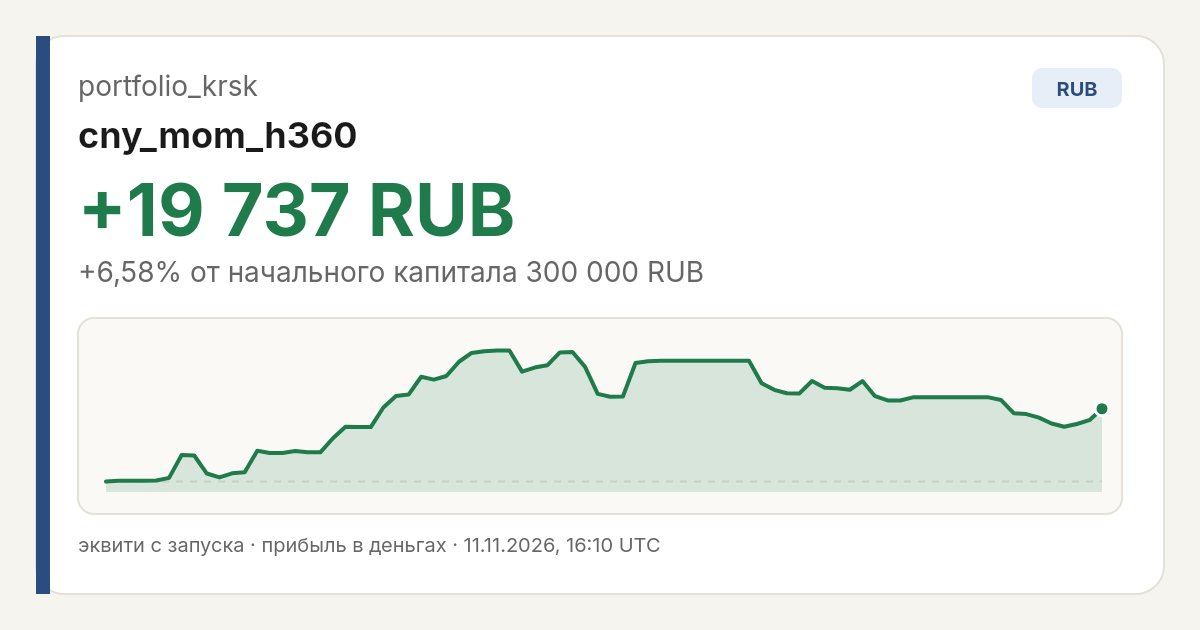
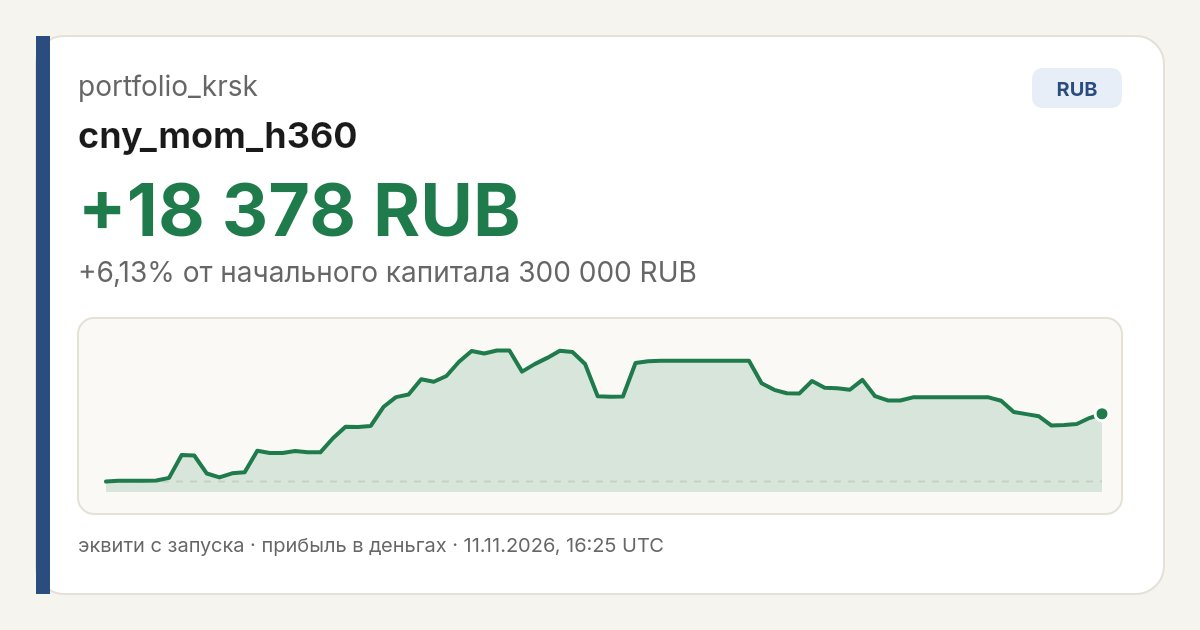
sync equity data 2026-11-11T16:25:52Z

diff --git a/share.html b/share.html
@@ -4,23 +4,23 @@
     <meta charset="UTF-8" />
     <meta name="viewport" content="width=device-width, initial-scale=1.0" />
     <title>portfolio_krsk - cny_mom_h360</title>
-    <meta name="description" content="cny_mom_h360: +19 737 RUB (+6,58%) с запуска. Лидер обложки выбран по доходности в процентах от начального капитала; суммы в разных валютах не сравниваются." />
+    <meta name="description" content="cny_mom_h360: +18 378 RUB (+6,13%) с запуска. Лидер обложки выбран по доходности в процентах от начального капитала; суммы в разных валютах не сравниваются." />
     <meta property="og:title" content="portfolio_krsk - cny_mom_h360" />
-    <meta property="og:description" content="cny_mom_h360: +19 737 RUB (+6,58%) с запуска. Лидер обложки выбран по доходности в процентах от начального капитала; суммы в разных валютах не сравниваются." />
+    <meta property="og:description" content="cny_mom_h360: +18 378 RUB (+6,13%) с запуска. Лидер обложки выбран по доходности в процентах от начального капитала; суммы в разных валютах не сравниваются." />
     <meta property="og:url" content="https://portfolio-krsk.vercel.app/" />
     <meta property="og:site_name" content="portfolio_krsk" />
     <meta property="og:locale" content="ru_RU" />
     <meta property="og:type" content="website" />
-    <meta property="og:image" content="https://varshavskiy1-beep.github.io/portfolio-krsk/og-cover.jpg?v=202611111610" />
-    <meta property="og:image:secure_url" content="https://varshavskiy1-beep.github.io/portfolio-krsk/og-cover.jpg?v=202611111610" />
+    <meta property="og:image" content="https://varshavskiy1-beep.github.io/portfolio-krsk/og-cover.jpg?v=202611111625" />
+    <meta property="og:image:secure_url" content="https://varshavskiy1-beep.github.io/portfolio-krsk/og-cover.jpg?v=202611111625" />
     <meta property="og:image:type" content="image/jpeg" />
     <meta property="og:image:width" content="1200" />
     <meta property="og:image:height" content="630" />
-    <link rel="image_src" href="https://varshavskiy1-beep.github.io/portfolio-krsk/og-cover.jpg?v=202611111610" />
+    <link rel="image_src" href="https://varshavskiy1-beep.github.io/portfolio-krsk/og-cover.jpg?v=202611111625" />
     <meta name="twitter:card" content="summary_large_image" />
     <meta name="twitter:title" content="portfolio_krsk - cny_mom_h360" />
-    <meta name="twitter:description" content="cny_mom_h360: +19 737 RUB (+6,58%) с запуска. Лидер обложки выбран по доходности в процентах от начального капитала; суммы в разных валютах не сравниваются." />
-    <meta name="twitter:image" content="https://varshavskiy1-beep.github.io/portfolio-krsk/og-cover.jpg?v=202611111610" />
+    <meta name="twitter:description" content="cny_mom_h360: +18 378 RUB (+6,13%) с запуска. Лидер обложки выбран по доходности в процентах от начального капитала; суммы в разных валютах не сравниваются." />
+    <meta name="twitter:image" content="https://varshavskiy1-beep.github.io/portfolio-krsk/og-cover.jpg?v=202611111625" />
     <meta http-equiv="refresh" content="0; url=/" />
     <script>location.replace("/")</script>
     <style>
@@ -49,9 +49,9 @@
   </head>
   <body>
     <main>
-      <img src="https://varshavskiy1-beep.github.io/portfolio-krsk/og-cover.jpg?v=202611111610" alt="portfolio_krsk - cny_mom_h360" width="1200" height="630" />
+      <img src="https://varshavskiy1-beep.github.io/portfolio-krsk/og-cover.jpg?v=202611111625" alt="portfolio_krsk - cny_mom_h360" width="1200" height="630" />
       <noscript>
-        <p>cny_mom_h360: +19 737 RUB (+6,58%) с запуска. Лидер обложки выбран по доходности в процентах от начального капитала; суммы в разных валютах не сравниваются.</p>
+        <p>cny_mom_h360: +18 378 RUB (+6,13%) с запуска. Лидер обложки выбран по доходности в процентах от начального капитала; суммы в разных валютах не сравниваются.</p>
         <p><a href="/">Открыть кабинет portfolio_krsk</a></p>
       </noscript>
     </main>
